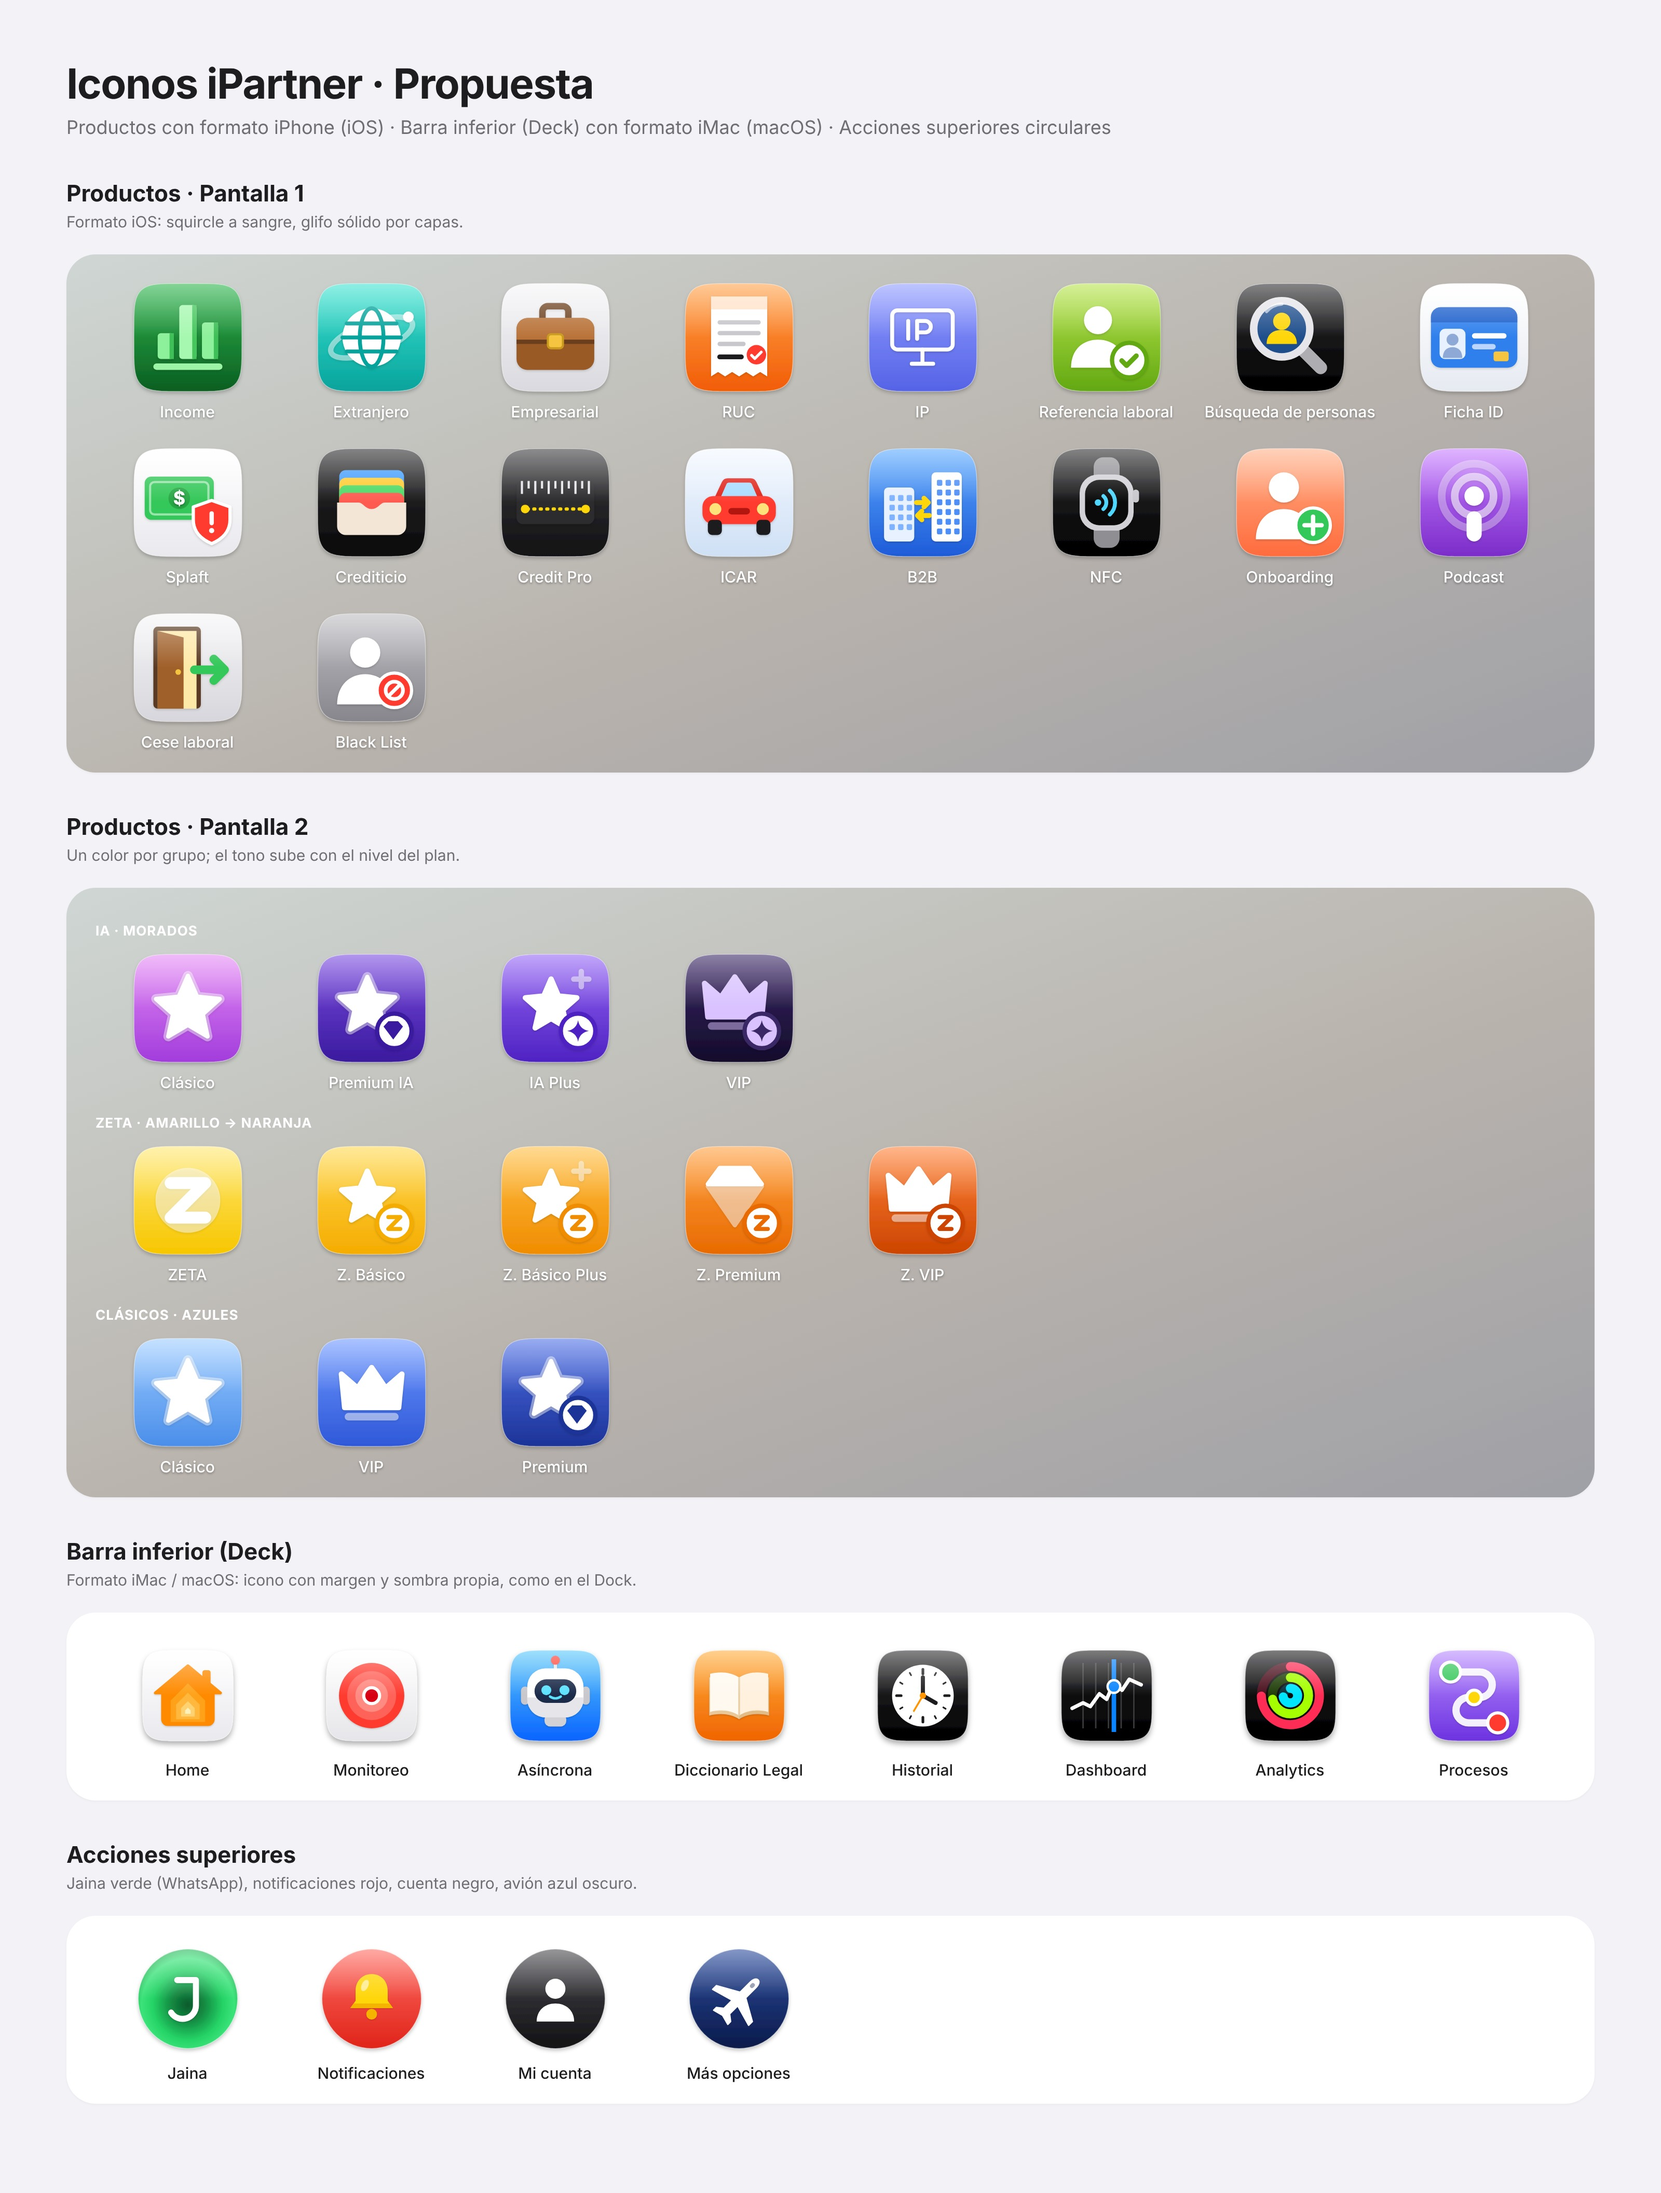
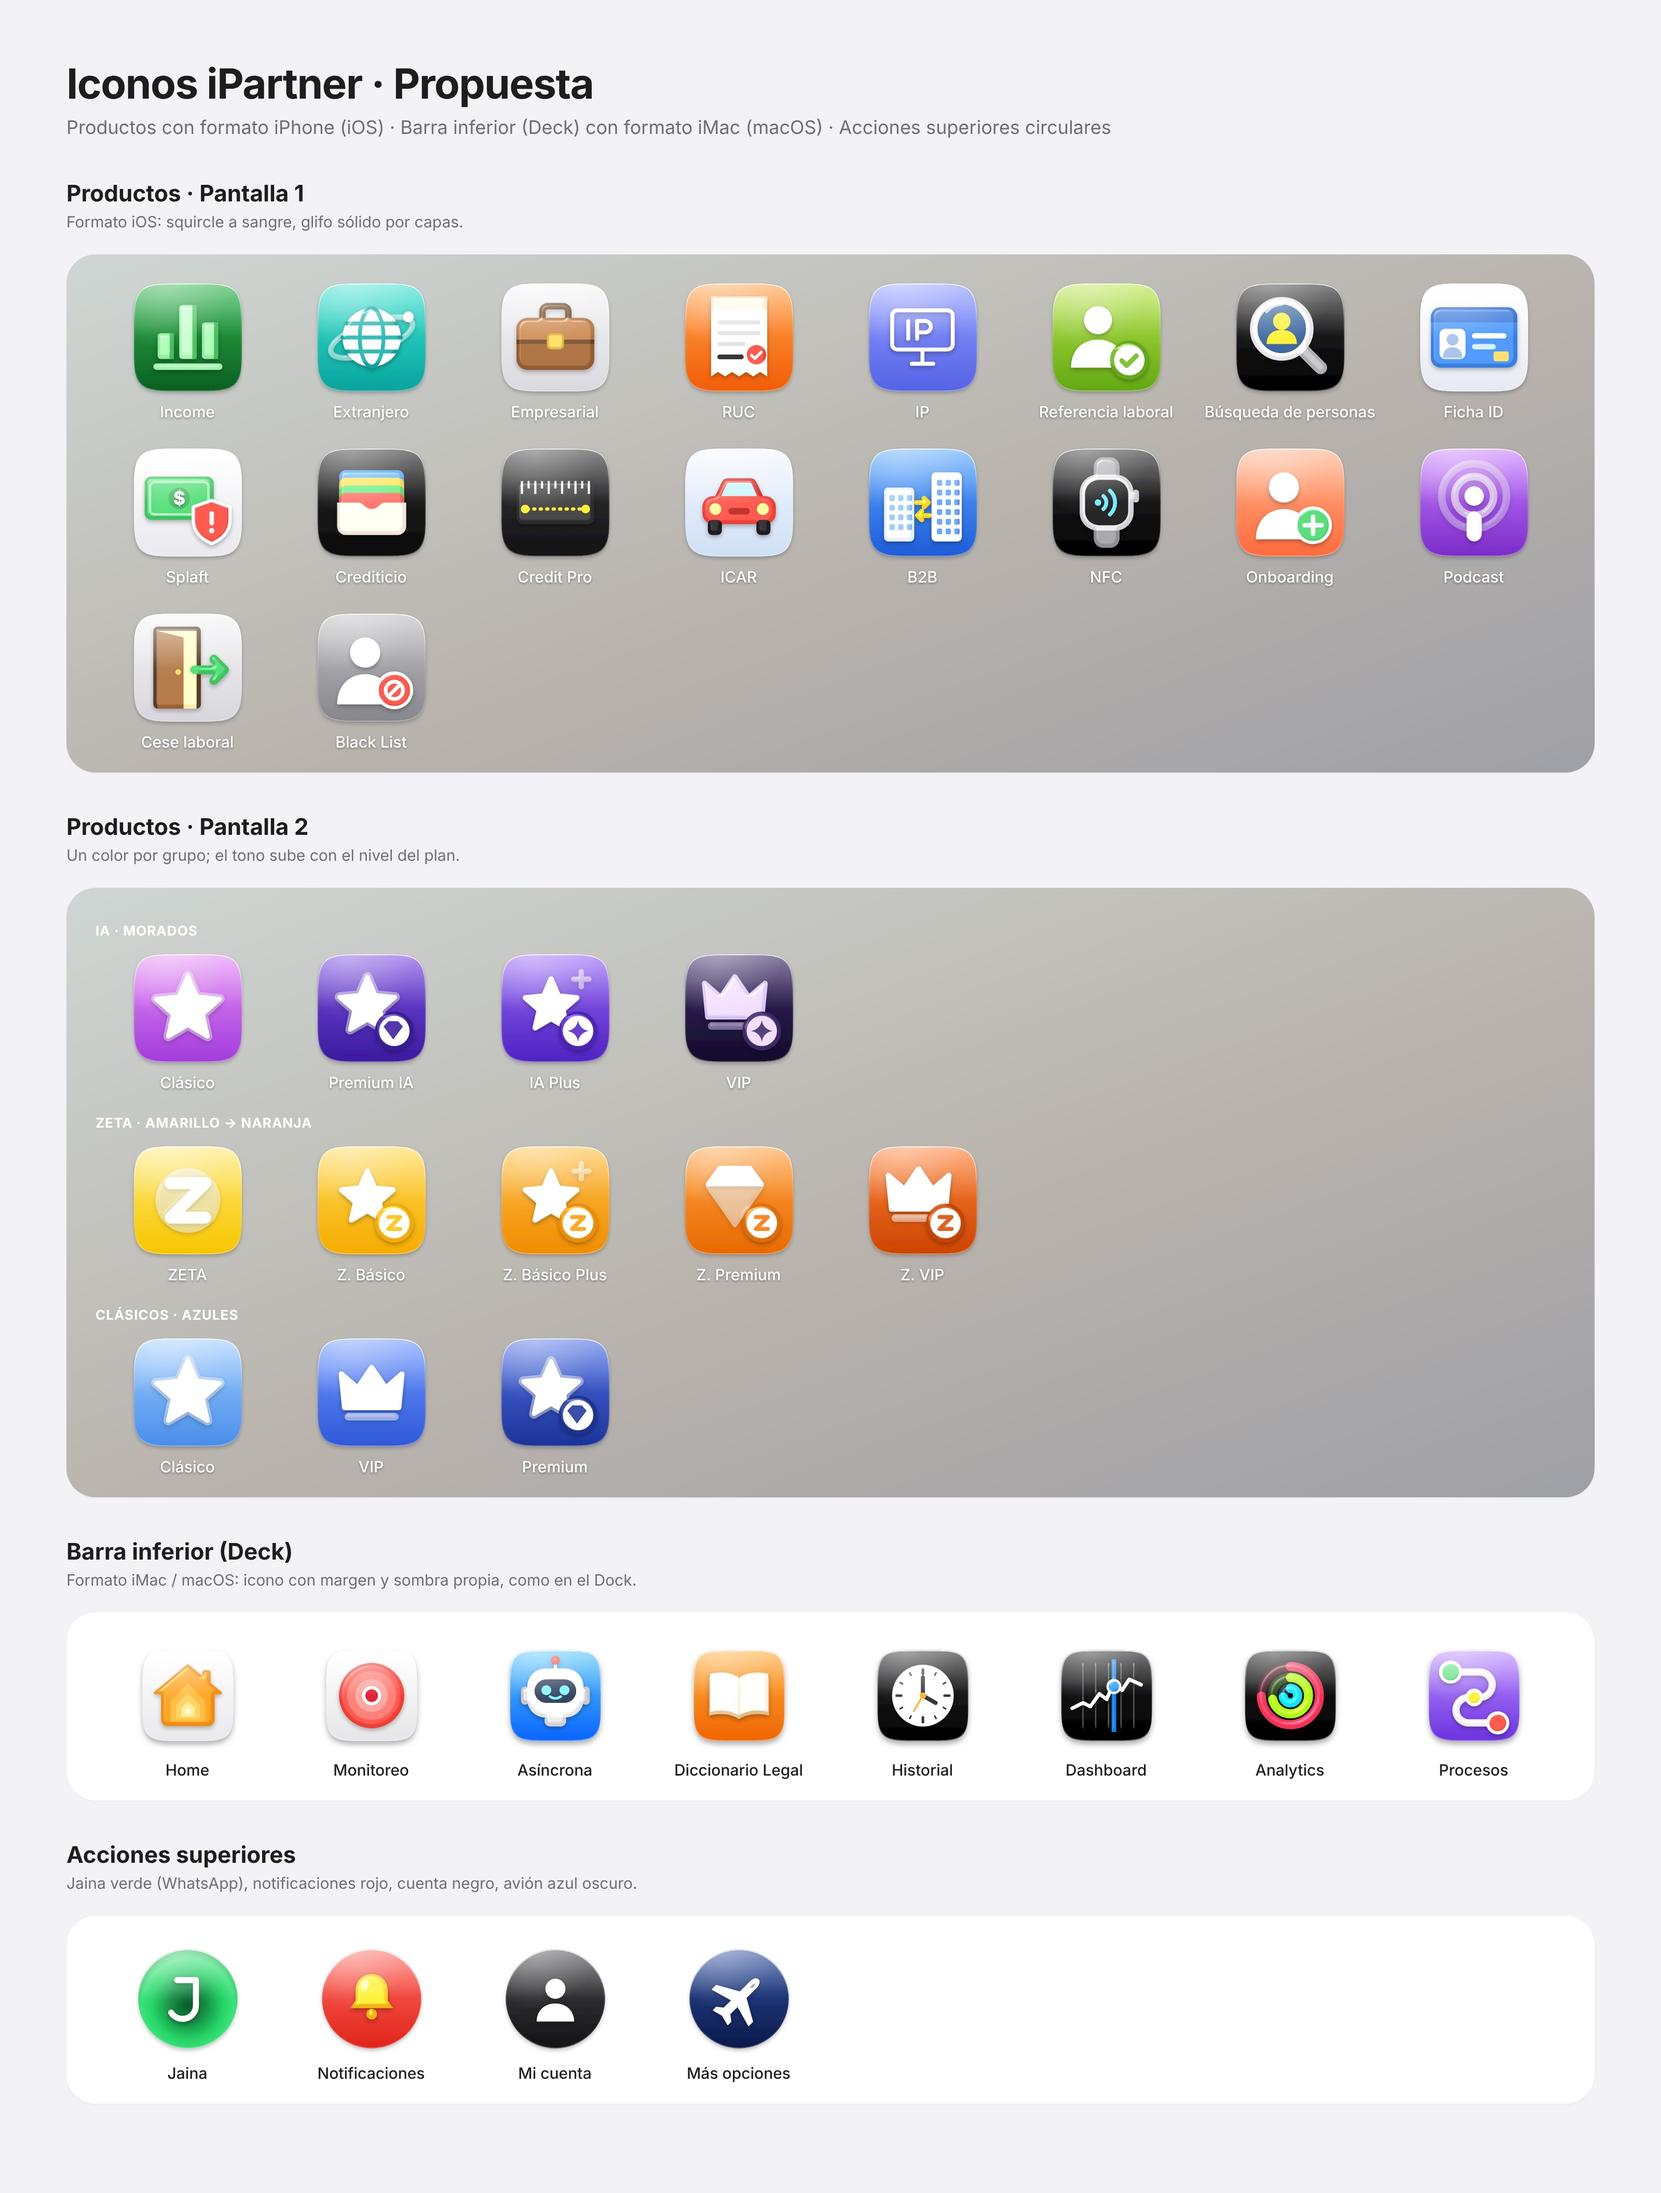
Iconos: acabado Liquid Glass (brillo especular, relieve, borde de luz y sombra suave)
Claude-Session: https://claude.ai/code/session_013FvKEZxsCiBjp9t4yEHMvN

diff --git a/iconos/hoja-iconos.html b/iconos/hoja-iconos.html
@@ -11,7 +11,15 @@ h2{font-size:22px;margin:40px 0 4px}.h2s{color:#6e6e73;font-size:15px;margin:0 0
 .wall .app{color:#fff;text-shadow:0 1px 2px rgba(0,0,0,.35)}
 svg.t{width:104px;height:104px;overflow:visible}
 .gt{font-size:13px;font-weight:700;color:#6e6e73;letter-spacing:.04em;margin:6px 0 14px}
-</style></head><body><div class="sheet" id="s"></div>
+</style></head><body><svg width="0" height="0" style="position:absolute"><filter id="lg-glass" x="-15%" y="-15%" width="130%" height="140%" color-interpolation-filters="sRGB">
+<feGaussianBlur in="SourceAlpha" stdDeviation="1.6" result="b"/>
+<feSpecularLighting in="b" surfaceScale="4" specularConstant=".85" specularExponent="20" lighting-color="#ffffff" result="sp"><feDistantLight azimuth="235" elevation="48"/></feSpecularLighting>
+<feComposite in="sp" in2="SourceAlpha" operator="in" result="sp2"/>
+<feColorMatrix in="SourceGraphic" type="saturate" values=".9" result="src"/>
+<feComposite in="src" in2="sp2" operator="arithmetic" k1="0" k2="1" k3=".5" k4="0" result="lit"/>
+<feGaussianBlur in="SourceAlpha" stdDeviation="2" result="sh"/><feOffset in="sh" dy="2" result="sho"/>
+<feComponentTransfer in="sho" result="sha"><feFuncA type="linear" slope=".28"/></feComponentTransfer>
+<feMerge><feMergeNode in="sha"/><feMergeNode in="lit"/></feMerge></filter></svg><div class="sheet" id="s"></div>
 <script>
 const st=(cx,cy,R,r)=>{let p=[];for(let i=0;i<10;i++){const a=-Math.PI/2+i*Math.PI/5,d=i%2?r:R;p.push((cx+d*Math.cos(a)).toFixed(1)+','+(cy+d*Math.sin(a)).toFixed(1))}return p.join(' ')};
 const star=(cx=50,cy=52,R=27,r=12.5)=>`<polygon class="p" points="${st(cx,cy,R,r)}" stroke="var(--p)" stroke-width="5" stroke-linejoin="round"/>`;
@@ -132,12 +140,12 @@ function tile(key,shape,colors,glyph,special){const id='i'+(n++);const [c1,c2,g]
  <defs><linearGradient id="${id}g" x1="0" y1="0" x2="0" y2="1"><stop offset="0" stop-color="${c1}"/><stop offset="1" stop-color="${c2}"/></linearGradient>
  <radialGradient id="${id}j" cx=".5" cy=".56" r=".55"><stop offset="0" stop-color="#0d5a2c"/><stop offset=".3" stop-color="#138a42"/><stop offset=".64" stop-color="#25D366"/><stop offset=".85" stop-color="#3be37a"/><stop offset="1" stop-color="#1fb855"/></radialGradient>
  <linearGradient id="${id}h" x1="0" y1="0" x2="0" y2="1"><stop offset="0" stop-color="#fff" stop-opacity=".42"/><stop offset=".5" stop-color="#fff" stop-opacity="0"/></linearGradient>
- <clipPath id="${id}c">${bgPath}</clipPath>
+ <radialGradient id="${id}r" cx=".3" cy="0" r="1"><stop offset="0" stop-color="#fff" stop-opacity=".28"/><stop offset=".6" stop-color="#fff" stop-opacity="0"/></radialGradient><linearGradient id="${id}e" x1="0" y1="0" x2="0" y2="1"><stop offset="0" stop-color="#fff" stop-opacity=".95"/><stop offset=".35" stop-color="#fff" stop-opacity=".15"/><stop offset=".8" stop-color="#fff" stop-opacity=".05"/><stop offset="1" stop-color="#fff" stop-opacity=".4"/></linearGradient><clipPath id="${id}c">${bgPath}</clipPath>
  <filter id="${id}s" x="-20%" y="-20%" width="140%" height="150%"><feDropShadow dx="0" dy="${shape==='mac'?3:2}" stdDeviation="${shape==='mac'?2.6:1.8}" flood-opacity="${shape==='mac'?.32:.22}"/></filter></defs>
  <g filter="url(#${id}s)" fill="${fill}">${bgPath}</g>
- <g clip-path="url(#${id}c)"><g class="n2" transform="${sc}" style="filter:drop-shadow(0 1px 1px rgba(0,0,0,.15))">${glyph}</g></g>
- <g fill="url(#${id}h)">${bgPath}</g>
- <g fill="none" stroke="#fff" stroke-opacity=".45" stroke-width=".7">${bgPath}</g></svg>`}
+ <g clip-path="url(#${id}c)"><g filter="url(#lg-glass)"><g class="n2" transform="${sc}">${glyph}</g></g></g>
+ <g fill="url(#${id}r)" clip-path="url(#${id}c)">${bgPath}</g><g fill="url(#${id}h)">${bgPath}</g>
+ <g fill="none" stroke="url(#${id}e)" stroke-width="1.6" clip-path="url(#${id}c)">${bgPath}</g></svg>`}
 const css=document.createElement('style');css.textContent=`.n2 .p{fill:var(--p)}.n2 .s{fill:var(--p);opacity:var(--so)}.n2 .c{fill:var(--cut)}.n2 .ps{fill:none;stroke:var(--p);stroke-linecap:round;stroke-linejoin:round}.n2 .ss{fill:none;stroke:var(--p);opacity:var(--so);stroke-linecap:round;stroke-linejoin:round}.n2 .cs{fill:none;stroke:var(--cut);stroke-linecap:round;stroke-linejoin:round}`;document.head.appendChild(css);
 const L=(arr,shape)=>`<div class="grid">${arr.map(([k,name])=>`<div class="app">${tile(k,shape,C[k],G[k])}<span>${name}</span></div>`).join('')}</div>`;
 const p1=[['income','Income'],['extranjero','Extranjero'],['proveedor','Empresarial'],['ruc','RUC'],['ip','IP'],['referencia-laboral','Referencia laboral'],['busqueda-personas','Búsqueda de personas'],['ficha-id','Ficha ID'],

diff --git a/iconos/propuesta-iconos-plataforma.html b/iconos/propuesta-iconos-plataforma.html
@@ -1897,7 +1897,9 @@ window.addEventListener("storage",function(e){
 .lv1 .nav-chip svg{width:24px;height:24px;stroke:var(--p);stroke-width:2.5px}
 .lv1 .chip-ico svg[fill="#fff"],.lv1 .chip-ico svg [fill="#fff"],.lv1 .nav-chip svg [fill="#fff"]{fill:var(--p)}
 /* Nivel 2: glifos nuevos rellenos y por capas */
-.lv2 .chip-ico svg.n2,.lv2 .nav-chip svg.n2{width:100%;height:100%;stroke:none;filter:drop-shadow(0 1.2px 1.2px rgba(0,0,0,.16))}
+.lv2 .chip-ico svg.n2,.lv2 .nav-chip svg.n2{width:100%;height:100%;stroke:none;filter:url(#lg-glass)}
+.lv2 .chip-ico::before,.lv2 .nav-chip::before{background:radial-gradient(120% 70% at 30% 0%,rgba(255,255,255,.32),rgba(255,255,255,0) 60%)!important}
+.lv2 .chip-ico::after,.lv2 .nav-chip::after{box-shadow:inset 0 1.2px 0 rgba(255,255,255,.85),inset 0 0 0 .8px rgba(255,255,255,.28),inset 0 -1px 0 rgba(255,255,255,.25)!important}
 .n2 .p{fill:var(--p)}.n2 .s{fill:var(--p);opacity:var(--so)}.n2 .c{fill:var(--cut)}
 .n2 .ps{fill:none;stroke:var(--p);stroke-linecap:round;stroke-linejoin:round}
 .n2 .ss{fill:none;stroke:var(--p);opacity:var(--so);stroke-linecap:round;stroke-linejoin:round}
@@ -1935,6 +1937,15 @@ window.addEventListener("storage",function(e){
 .ap-dark.lv2 #btnUser.top2{--p:#E5E5EA}
 .lv2 #btnJaina.top2 svg.n2{width:74%!important;height:74%!important;filter:drop-shadow(0 0 2px #fff) drop-shadow(0 0 5px rgba(190,255,215,.9))}
 </style>
+<svg width="0" height="0" style="position:absolute" aria-hidden="true"><filter id="lg-glass" x="-15%" y="-15%" width="130%" height="140%" color-interpolation-filters="sRGB">
+<feGaussianBlur in="SourceAlpha" stdDeviation="1.6" result="b"/>
+<feSpecularLighting in="b" surfaceScale="4" specularConstant=".85" specularExponent="20" lighting-color="#ffffff" result="sp"><feDistantLight azimuth="235" elevation="48"/></feSpecularLighting>
+<feComposite in="sp" in2="SourceAlpha" operator="in" result="sp2"/>
+<feColorMatrix in="SourceGraphic" type="saturate" values=".9" result="src"/>
+<feComposite in="src" in2="sp2" operator="arithmetic" k1="0" k2="1" k3=".5" k4="0" result="lit"/>
+<feGaussianBlur in="SourceAlpha" stdDeviation="2" result="sh"/><feOffset in="sh" dy="2" result="sho"/>
+<feComponentTransfer in="sho" result="sha"><feFuncA type="linear" slope=".28"/></feComponentTransfer>
+<feMerge><feMergeNode in="sha"/><feMergeNode in="lit"/></feMerge></filter></svg>
 <div id="pz" role="region" aria-label="Propuesta de iconos">
   <b>VERSIÓN</b><div class="sg" data-k="lv"><button data-v="" aria-pressed="false">Actual</button><button data-v="lv1" aria-pressed="false">Nivel 1</button><button data-v="lv2" aria-pressed="true">Nivel 2</button></div>
   <b>APARIENCIA</b><div class="sg" data-k="ap"><button data-v="" aria-pressed="true">Claro</button><button data-v="ap-dark" aria-pressed="false">Oscuro</button><button data-v="ap-glass" aria-pressed="false">Cristal</button></div>
